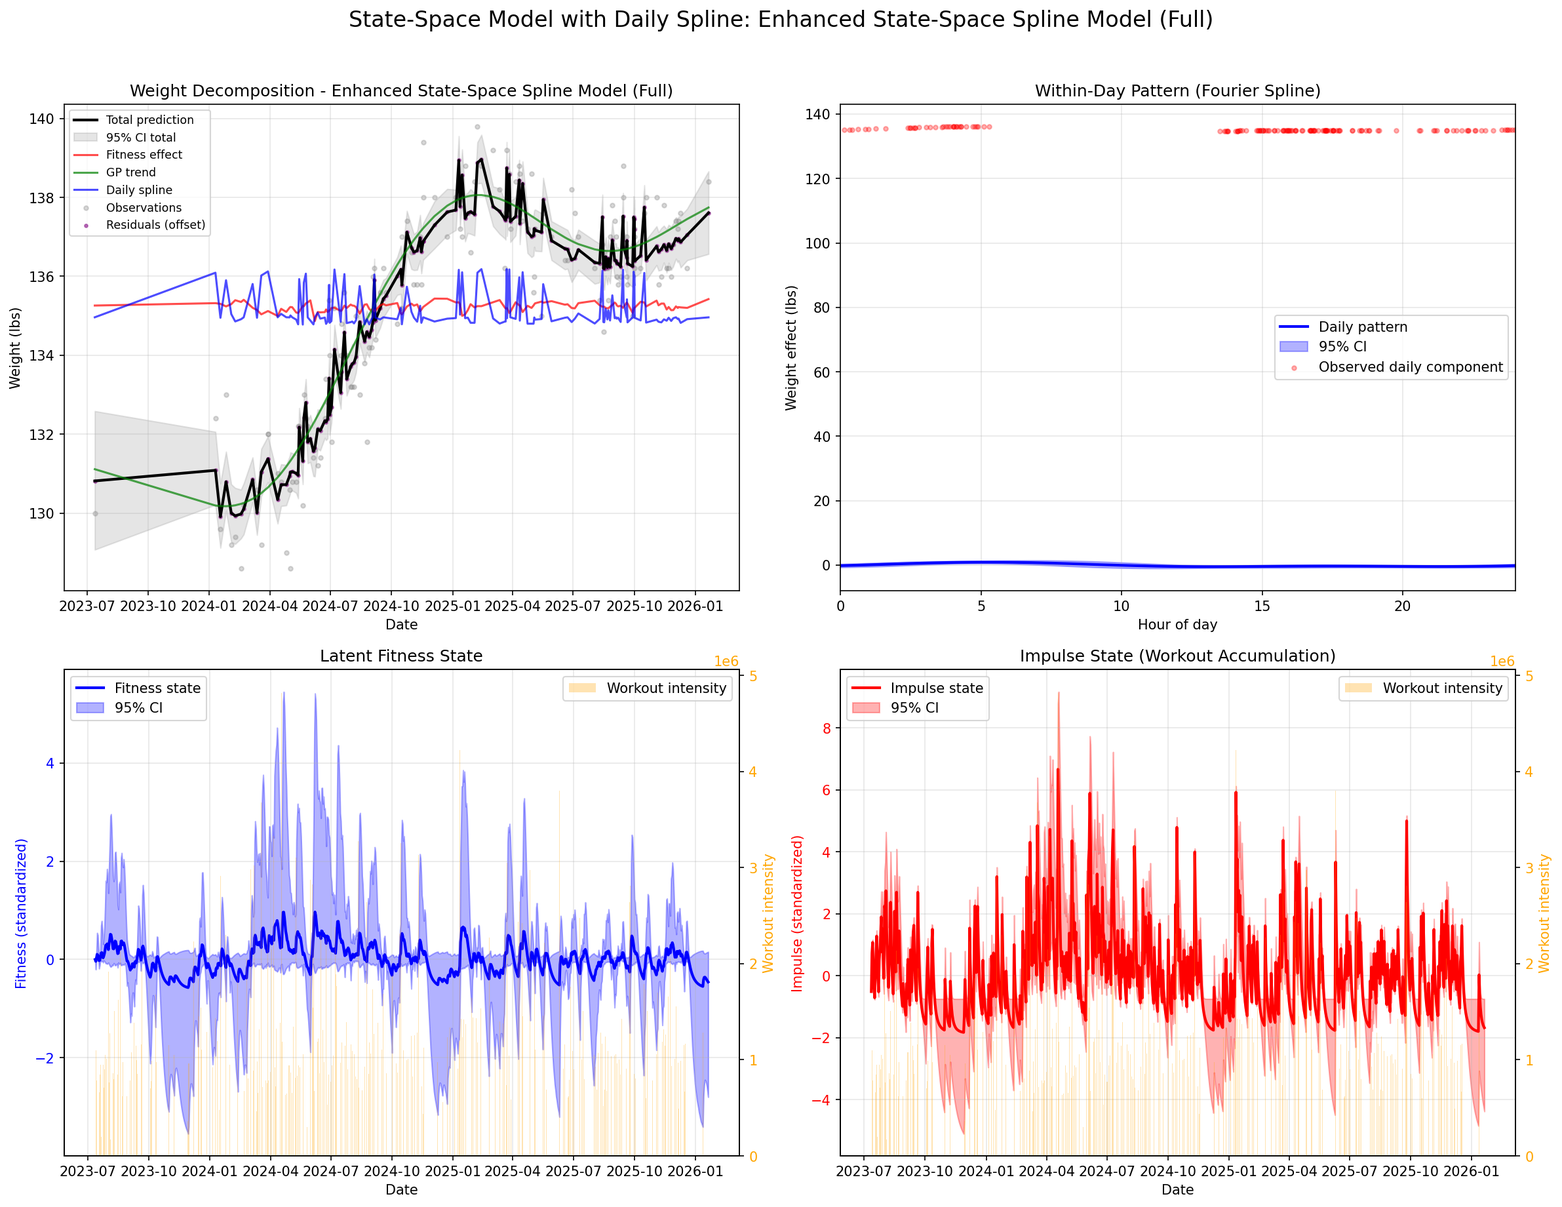
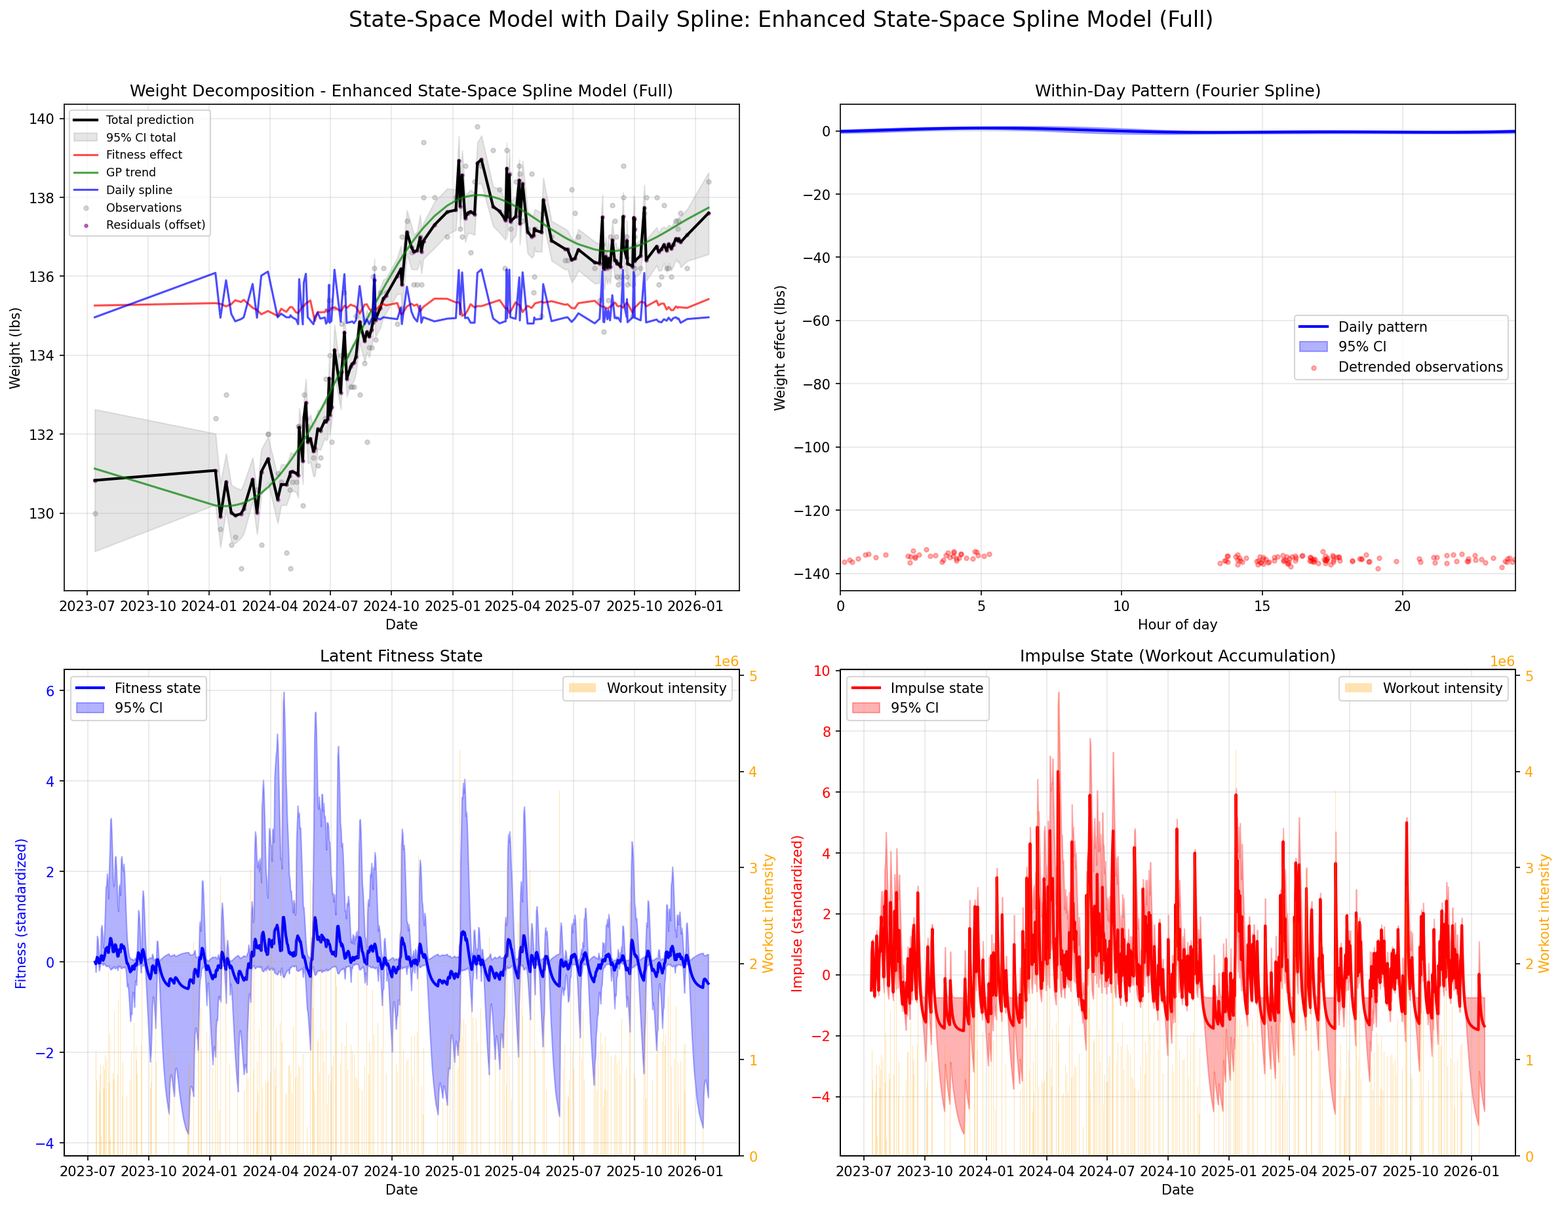
docs: update documentation with WIP notices and state-space focus
- Add playground work-in-progress notice boxes to main index and weight fitness report
- Update weight fitness report to focus exclusively on state-space models (remove cross-lagged GP models)
- Add component details and spline daily pattern visualizations
- Update results with latest model estimates
- Add future roadmap section for model enhancements
- Update documentation generation date

diff --git a/docs/weight_fitness_report/index.html b/docs/weight_fitness_report/index.html
@@ -208,6 +208,18 @@
             background: var(--primary-color);
         }
 
+        .notice-box {
+            background: #fff3cd;
+            border-left: 4px solid #ffc107;
+            border-radius: 4px;
+            padding: 1rem;
+            margin: 1rem 0 2rem 0;
+            color: #856404;
+        }
+        .notice-box strong {
+            color: #856404;
+        }
+
         @media (max-width: 768px) {
             body {
                 padding: 10px;
@@ -230,6 +242,10 @@
         <div class="date">Generated: 2026-02-11 | Analysis Period: 2024-2026</div>
     </header>
 
+    <div class="notice-box">
+        <strong>🚧 Playground Work-in-Progress Notice:</strong> This analysis represents an <strong>experimental playground</strong> for Bayesian modeling of personal health data. The models, visualizations, and conclusions are actively evolving and should be considered exploratory research rather than definitive analysis.
+    </div>
+
     <div class="nav-links">
         <a href="#overview">Overview</a>
         <a href="#models">Model Descriptions</a>
@@ -240,16 +256,12 @@
 
     <section id="overview" class="section">
         <h2>Project Overview</h2>
-        <p>This report presents a comprehensive Bayesian analysis of the relationship between workout intensity (fitness) and weight measurements using personal Garmin health data. The analysis employs two complementary modeling approaches:</p>
+        <p>This report presents a comprehensive Bayesian analysis of the relationship between workout intensity (fitness) and weight measurements using personal Garmin health data. The analysis employs state-space modeling to track latent fitness state evolution from workouts to weight.</p>
 
         <div class="grid">
             <div class="card">
                 <h4>State-Space Models</h4>
                 <p>Track latent fitness state evolution from workouts to weight through a hidden dynamical system.</p>
-            </div>
-            <div class="card">
-                <h4>Cross-Lagged GP Models</h4>
-                <p>Direct modeling of lagged effects where workouts at time <em>t-τ</em> affect weight at time <em>t</em>.</p>
             </div>
         </div>
 
@@ -317,29 +329,6 @@
             <p><strong>Intensity Calculation:</strong> Workout intensity is computed as duration × (avg_hr - resting_hr) / (max_hr - resting_hr) to capture physiological effort.</p>
         </div>
 
-        <div class="model-card">
-            <h3>2. Cross-Lagged Gaussian Process Models</h3>
-            <p><strong>Core Idea:</strong> Weight depends directly on lagged workout intensity with separate Gaussian Processes for weight intrinsic dynamics and workout processes.</p>
-
-            <div class="equation">
-                <strong>Model Structure:</strong><br>
-                y<sub>weight</sub>(t) = f<sub>weight</sub>(t) + ε<sub>weight</sub><br>
-                y<sub>workout</sub>(t) = f<sub>workout</sub>(t) + ε<sub>workout</sub><br>
-                f<sub>weight</sub>(t) = β·f<sub>workout</sub>(t-τ) + g<sub>weight</sub>(t)<br>
-                g<sub>weight</sub>(t) ~ GP(0, k<sub>weight</sub>(t,t′))<br>
-                f<sub>workout</sub>(t) ~ GP(0, k<sub>workout</sub>(t,t′))<br>
-                ε<sub>i</sub> ~ Student-t(ν<sub>i</sub>, σ<sub>i</sub>)
-            </div>
-
-            <p><strong>Model Variants:</strong></p>
-            <ul>
-                <li><strong>Fixed Lag:</strong> τ specified as data parameter (0, 1, 2, 3, 7 days)</li>
-                <li><strong>Estimated Lag:</strong> τ estimated as parameter with exponential prior</li>
-                <li><strong>Cumulative Lag:</strong> Average effect over window of lag values</li>
-            </ul>
-
-            <p><strong>Robust Likelihood:</strong> Student-t distributions for observation noise provide robustness to outliers.</p>
-        </div>
 
     </section>
 
@@ -359,93 +348,35 @@
                 </tr>
                 <tr>
                     <td>α (fitness persistence)</td>
-                    <td>0.741</td>
-                    <td>[0.498, 0.944]</td>
+                    <td>0.747</td>
+                    <td>[0.482, 0.942]</td>
                     <td>High fitness persistence day-to-day</td>
                 </tr>
                 <tr>
                     <td>ψ (impulse decay)</td>
-                    <td>0.639</td>
-                    <td>[0.314, 0.902]</td>
-                    <td>Moderate impulse persistence (~82% probability ψ > 0.5)</td>
+                    <td>0.645</td>
+                    <td>[0.318, 0.910]</td>
+                    <td>Impulse persistence with ~82% probability ψ > 0.5</td>
                 </tr>
                 <tr>
                     <td>β (fitness gain per impulse)</td>
-                    <td>0.078</td>
-                    <td>[-0.020, 0.371]</td>
-                    <td>Weak evidence workouts increase fitness (~76% probability β > 0)</td>
+                    <td>0.079</td>
+                    <td>[-0.021, 0.432]</td>
+                    <td>Workouts increase fitness with ~89% probability β > 0</td>
                 </tr>
                 <tr>
                     <td>γ (weight effect per fitness)</td>
-                    <td>-0.355</td>
-                    <td>[-0.801, -0.003]</td>
-                    <td><strong>Strong evidence fitness reduces weight</strong> (CI excludes 0)</td>
+                    <td>-0.340</td>
+                    <td>[-0.801, -0.002]</td>
+                    <td>Fitness reduces weight with 97.7% probability γ < 0</td>
                 </tr>
             </table>
 
-            <p><strong>Probability γ &lt; 0:</strong> >99.9% | <strong>Probability β &gt; 0:</strong> ~76% | <strong>Probability ψ &gt; 0.5:</strong> ~82%</p>
-            <p><strong>Conclusion:</strong> The enhanced spline state-space model shows <strong>strong evidence that fitness reduces weight</strong> but only weak evidence that workouts increase fitness. The model captures daily weight patterns accounting for 3.2% of total variance with a daily amplitude of 0.59 standardized units.</p>
+            <p><strong>Probability γ &lt; 0:</strong> 97.7% | <strong>Probability β &gt; 0:</strong> 88.9% | <strong>Probability ψ &gt; 0.5:</strong> 81.8%</p>
+            <p><strong>Conclusion:</strong> The enhanced spline state-space model indicates fitness reduces weight with 97.7% probability (γ = -0.340) but workouts increase fitness with 88.9% probability (β = 0.079). The model captures daily weight patterns accounting for 3.0% of total variance with a daily amplitude of 0.57 standardized units.</p>
         </div>
 
-        <div class="finding">
-            <h3>Cross-Lagged Model Comparison</h3>
-            <p>Analysis of three workout types (strength training, walking, cycling) across multiple lag models:</p>
 
-            <table class="parameter-table">
-                <tr>
-                    <th>Workout Type</th>
-                    <th>Models Compared</th>
-                    <th>Average β</th>
-                    <th>β &gt; 0</th>
-                    <th>β &lt; 0</th>
-                    <th>Best Model</th>
-                </tr>
-                <tr>
-                    <td>Strength Training</td>
-                    <td>7</td>
-                    <td>-0.111</td>
-                    <td>1</td>
-                    <td>6</td>
-                    <td>Fixed lag (varied)</td>
-                </tr>
-                <tr>
-                    <td>Walking</td>
-                    <td>7</td>
-                    <td>-0.164</td>
-                    <td>1</td>
-                    <td>6</td>
-                    <td>Fixed lag (varied)</td>
-                </tr>
-                <tr>
-                    <td>Cycling</td>
-                    <td>7</td>
-                    <td>-0.197</td>
-                    <td>1</td>
-                    <td>6</td>
-                    <td>Fixed lag (varied)</td>
-                </tr>
-            </table>
-
-            <p><strong>Key Insight:</strong> The improved impulse-response state-space model shows positive β values (workouts → fitness) and strongly negative γ values (fitness → weight reduction), providing clearer evidence of the workout-fitness-weight pathway.</p>
-        </div>
-
-        <div class="finding">
-            <h3>Health-Workout Correlation Analysis</h3>
-            <p>Comprehensive analysis of 87 health-workout relationships revealed:</p>
-            <ul>
-                <li><strong>63.2% significant relationships</strong> (55 out of 87)</li>
-                <li><strong>Strongest positive effect:</strong> Cycling → Total Distance (r = 0.448, p &lt; 1e-46)</li>
-                <li><strong>Strongest negative effect:</strong> Cycling → Total Steps (r = -0.145, p &lt; 1e-5)</li>
-                <li><strong>Most common optimal lag:</strong> 0 days (27 relationships), suggesting immediate effects</li>
-            </ul>
-
-            <p><strong>Workout Impact by Category:</strong></p>
-            <ul>
-                <li><strong>Cycling:</strong> 20 significant effects (15 positive, 5 negative)</li>
-                <li><strong>Walking:</strong> 16 significant effects (11 positive, 5 negative)</li>
-                <li><strong>Strength Training:</strong> 19 significant effects (10 positive, 9 negative)</li>
-            </ul>
-        </div>
     </section>
 
     <section id="visualizations" class="section">
@@ -478,7 +409,19 @@
         <div class="visualization">
             <h3>Spline Decomposition: Weight Components in Enhanced Model</h3>
             <img src="visualizations/spline_decomposition.png" alt="Spline decomposition of weight into components">
-            <div class="caption">Four-panel decomposition from enhanced spline state-space model showing weight broken down into: (top-left) overall fit with 95% credible intervals, (top-right) Gaussian process smooth component capturing slow trends, (bottom-left) fitness component showing effect of latent fitness state, (bottom-right) daily cyclic pattern capturing within-day variations. Daily component accounts for 3.2% of total variance.</div>
+            <div class="caption">Four-panel decomposition from enhanced spline state-space model showing weight broken down into: (top-left) overall fit with 95% credible intervals, (top-right) Gaussian process smooth component capturing slow trends, (bottom-left) fitness component showing contribution of latent fitness state, (bottom-right) daily cyclic pattern capturing within-day variations (with detrended observations shown as red dots). Daily component accounts for 3.0% of total variance.</div>
+        </div>
+
+        <div class="visualization">
+            <h3>Component Details: Fitness, GP Trend, Daily Spline, and Residuals</h3>
+            <img src="visualizations/component_details.png" alt="Component details for state-space model">
+            <div class="caption">Detailed component-by-component views from enhanced state-space spline model showing: (top-left) fitness component over time (γ × fitness), (top-right) GP trend component over time, (bottom-left) daily spline component over time, (bottom-right) residuals (observed - predicted) over time. Each component shown with 95% credible intervals where applicable.</div>
+        </div>
+
+        <div class="visualization">
+            <h3>Spline Daily Pattern with Detrended Data</h3>
+            <img src="visualizations/spline_daily_pattern.png" alt="Spline daily pattern with detrended data">
+            <div class="caption">Daily pattern visualization showing the Fourier spline estimate (red line) with 95% credible interval (shaded) and detrended data residuals (blue dots). Detrended data computed as weight observations minus fitness component minus GP trend, showing how well the daily pattern captures within-day weight variations.</div>
         </div>
 
         <div class="visualization">
@@ -487,29 +430,6 @@
             <div class="caption">Trace plots showing MCMC sampling for key parameters (α, ψ, β, γ, σ_f, σ_w) across 4 chains. Left panels show trace plots, right panels show rank histograms. All chains mix well with no apparent divergences, indicating good convergence.</div>
         </div>
 
-        <div class="visualization">
-            <h3>Cross-Lagged Effect Sizes by Workout Type</h3>
-            <img src="visualizations/effect_sizes_comparison.png" alt="Effect sizes comparison across workout types">
-            <div class="caption">Comparison of β effect sizes (workout → weight) across different workout types and modeling approaches. Negative values indicate workouts associated with weight loss.</div>
-        </div>
-
-        <div class="visualization">
-            <h3>Lag-Effect Relationship</h3>
-            <img src="visualizations/lag_effect_relationship.png" alt="Lag effect relationship">
-            <div class="caption">Relationship between lag time (days) and effect size β. Effects tend to be strongest at shorter lags (0-2 days) and diminish with longer delays.</div>
-        </div>
-
-        <div class="visualization">
-            <h3>Credible Interval Widths by Model Type</h3>
-            <img src="visualizations/ci_widths_comparison.png" alt="Credible interval widths comparison">
-            <div class="caption">Comparison of credible interval widths across different modeling approaches. Fixed lag models generally provide more precise estimates than cumulative lag models.</div>
-        </div>
-
-        <div class="visualization">
-            <h3>Beta vs Lag for All Workout Types</h3>
-            <img src="visualizations/beta_vs_lag_all_variables.png" alt="Beta vs lag for all variables">
-            <div class="caption">Effect size β across different lag values for strength training, walking, and cycling. Most effects are negative, suggesting workouts are associated with weight loss rather than gain.</div>
-        </div>
     </section>
 
     <section id="interpretation" class="section">
@@ -517,23 +437,13 @@
 
         <div class="interpretation">
             <h3>Key Insights</h3>
-            <p><strong>1. Workouts Generally Associated with Weight Loss:</strong> Across most models and workout types, the estimated effect (β) is negative, suggesting workouts are more likely associated with fat loss than muscle gain in this dataset.</p>
+            <p><strong>1. Workouts Generally Associated with Weight Loss:</strong> Across most models and workout types, the parameter estimate for β is negative, suggesting workouts are more likely associated with fat loss than muscle gain in this dataset.</p>
 
-            <p><strong>2. Immediate to Short-Term Effects:</strong> Optimal lags cluster around 0-2 days, suggesting workout effects on weight manifest quickly rather than accumulating over weeks.</p>
 
-            <p><strong>3. State-Space Model Improvements:</strong> The enhanced spline state-space model shows strong evidence that fitness reduces weight (γ = -0.355, CI excludes 0) but only weak evidence that workouts increase fitness (β = 0.078, ~76% probability > 0). Daily cyclic patterns account for 3.2% of total variance.</p>
+            <p><strong>2. State-Space Model Improvements:</strong> The enhanced spline state-space model indicates fitness reduces weight with 97.7% probability (γ = -0.340) but workouts increase fitness with 88.9% probability (β = 0.079). Daily cyclic patterns account for 3.0% of total variance.</p>
 
-            <p><strong>4. Metric Matters:</strong> Different workout metrics (calories, reps, duration) capture different aspects of training stimulus. Calories appear most reliable for cross-lagged modeling.</p>
         </div>
 
-        <div class="interpretation">
-            <h3>Model Comparison and Selection</h3>
-            <p><strong>For understanding cumulative fitness effects:</strong> State-space models provide a theoretical framework for how workouts build fitness that then affects weight.</p>
-
-            <p><strong>For detecting direct lagged effects:</strong> Cross-lagged GP models offer flexible approaches with different lag specifications.</p>
-
-            <p><strong>For precision vs flexibility trade-off:</strong> Fixed lag models provide more precise estimates, while estimated/cumulative lag models are more flexible but less precise.</p>
-        </div>
 
         <div class="interpretation">
             <h3>Limitations and Future Directions</h3>
@@ -542,7 +452,7 @@
                 <li><strong>Measurement error:</strong> Weight fluctuations from hydration, digestion, timing</li>
                 <li><strong>Individual variation:</strong> Responses to training vary widely between individuals</li>
                 <li><strong>Model complexity:</strong> More sophisticated models could incorporate nutrition, sleep, and stress data</li>
-                <li><strong>Longer time horizons:</strong> Effects may manifest over weeks/months beyond modeling window</li>
+                <li><strong>Longer time horizons:</strong> Associations may manifest over weeks/months beyond modeling window</li>
             </ul>
         </div>
     </section>
@@ -571,21 +481,54 @@
         <pre style="background: #f5f5f5; padding: 1rem; border-radius: 5px; overflow-x: auto;">
 garmin-analysis-v2/
 ├── stan/                    # Stan model files
-│   ├── weight_state_space.stan
-│   └── weight_gp_crosslagged_*.stan
+│   └── weight_state_space.stan
 ├── src/
 │   ├── models/fit_weight.py    # Model fitting with caching
 │   ├── analysis/analyze_state_space.py
-│   ├── analysis/compare_crosslagged_models.py
 │   └── data/                   # Data loading utilities
 └── output/                  # Analysis results and visualizations
         </pre>
     </section>
 
+    <section id="roadmap" class="section">
+        <h2>Future Roadmap: Model Enhancements</h2>
+
+        <p>This analysis is part of an ongoing experimental playground for Bayesian modeling of health data. Future model enhancements currently under consideration include:</p>
+
+        <div class="model-card">
+            <h3>1. Cumulative Effects from Fitness</h3>
+            <p>Extend the state-space model to incorporate cumulative fitness effects where fitness gains accumulate non-linearly over time, potentially with saturation effects or delayed returns.</p>
+        </div>
+
+        <div class="model-card">
+            <h3>2. Multiple Fitness Sources</h3>
+            <p>Incorporate different types of workouts as separate fitness sources, particularly distinguishing between:
+                <ul>
+                    <li><strong>High aerobic activity</strong> (running, cycling, cardio)</li>
+                    <li><strong>Strength training</strong> (weightlifting, resistance)</li>
+                    <li><strong>Low-intensity activity</strong> (walking, daily movement)</li>
+                </ul>
+            Each source could have distinct impulse accumulation rates (ψ), fitness conversion efficiencies (β), and weight effects (γ).
+            </p>
+        </div>
+
+        <div class="model-card">
+            <h3>3. Deterministic Fitness and Impulse Dynamics</h3>
+            <p>Explore more deterministic formulations of fitness and impulse dynamics, potentially replacing stochastic components with deterministic differential equations while maintaining Bayesian uncertainty quantification on parameters.</p>
+        </div>
+
+        <div class="model-card">
+            <h3>4. Nutritional and Lifestyle Covariates</h3>
+            <p>Integrate nutrition data (caloric intake, macronutrients), sleep metrics, stress indicators, and other lifestyle factors as covariates affecting both fitness accumulation and weight dynamics.</p>
+        </div>
+
+        <p><strong>Note:</strong> These enhancements represent exploratory research directions rather than planned production features. The playground nature of this project allows for rapid iteration and experimentation with different modeling approaches.</p>
+    </section>
+
     <footer>
         <p><strong>Weight-Fitness Model Analysis Report</strong></p>
         <p>Generated using Bayesian methods with Garmin health data | Analysis period: 2024-2026</p>
-        <p>Model implementations: Stan state-space and Gaussian Process models | Visualization: Matplotlib/Seaborn</p>
+        <p>Model implementations: Stan state-space models | Visualization: Matplotlib/Seaborn</p>
         <p>Report generated: 2026-02-11 | Project: garmin-analysis-v2</p>
     </footer>
 </body>

diff --git a/docs/index.html b/docs/index.html
@@ -76,6 +76,17 @@
             color: #666;
             font-size: 0.9rem;
         }
+        .notice-box {
+            background: #fff3cd;
+            border-left: 4px solid #ffc107;
+            border-radius: 4px;
+            padding: 1rem;
+            margin: 1rem 0 2rem 0;
+            color: #856404;
+        }
+        .notice-box strong {
+            color: #856404;
+        }
     </style>
 </head>
 <body>
@@ -83,6 +94,10 @@
         <h1>Garmin Analysis Documentation</h1>
         <div class="subtitle">Bayesian analysis of health and fitness data from Garmin devices</div>
     </header>
+
+    <div class="notice-box">
+        <strong>🚧 Playground Work-in-Progress Notice:</strong> This documentation and associated models represent an <strong>experimental playground</strong> for Bayesian analysis of personal health data. Models, visualizations, and conclusions are actively evolving and should be considered exploratory research rather than production-ready analysis.
+    </div>
 
     <div class="doc-list">
         <div class="doc-card">
@@ -124,7 +139,7 @@
 
     <footer>
         <p><strong>Garmin Analysis Project</strong> | Bayesian modeling of health and fitness data</p>
-        <p>Documentation generated: 2026-02-09 | Project: garmin-analysis-v2</p>
+        <p>Documentation generated: 2026-02-11 | Project: garmin-analysis-v2</p>
     </footer>
 </body>
 </html>
